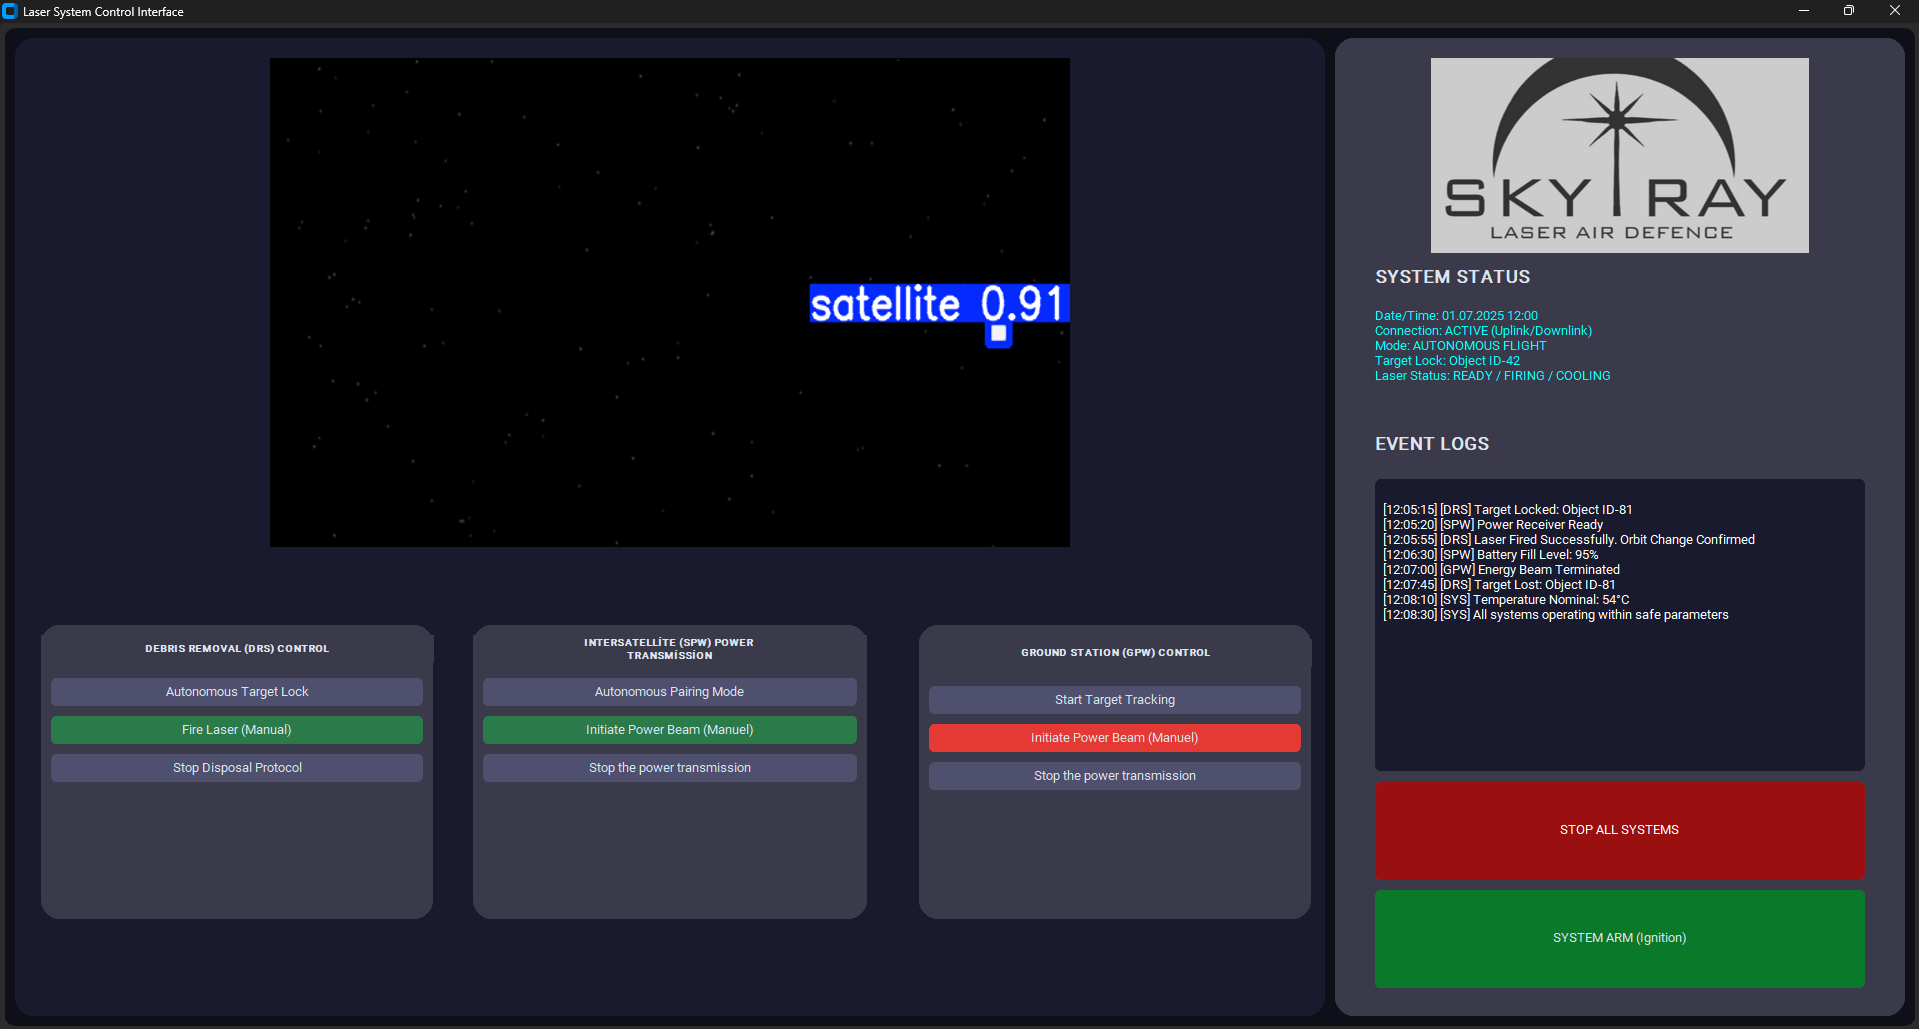
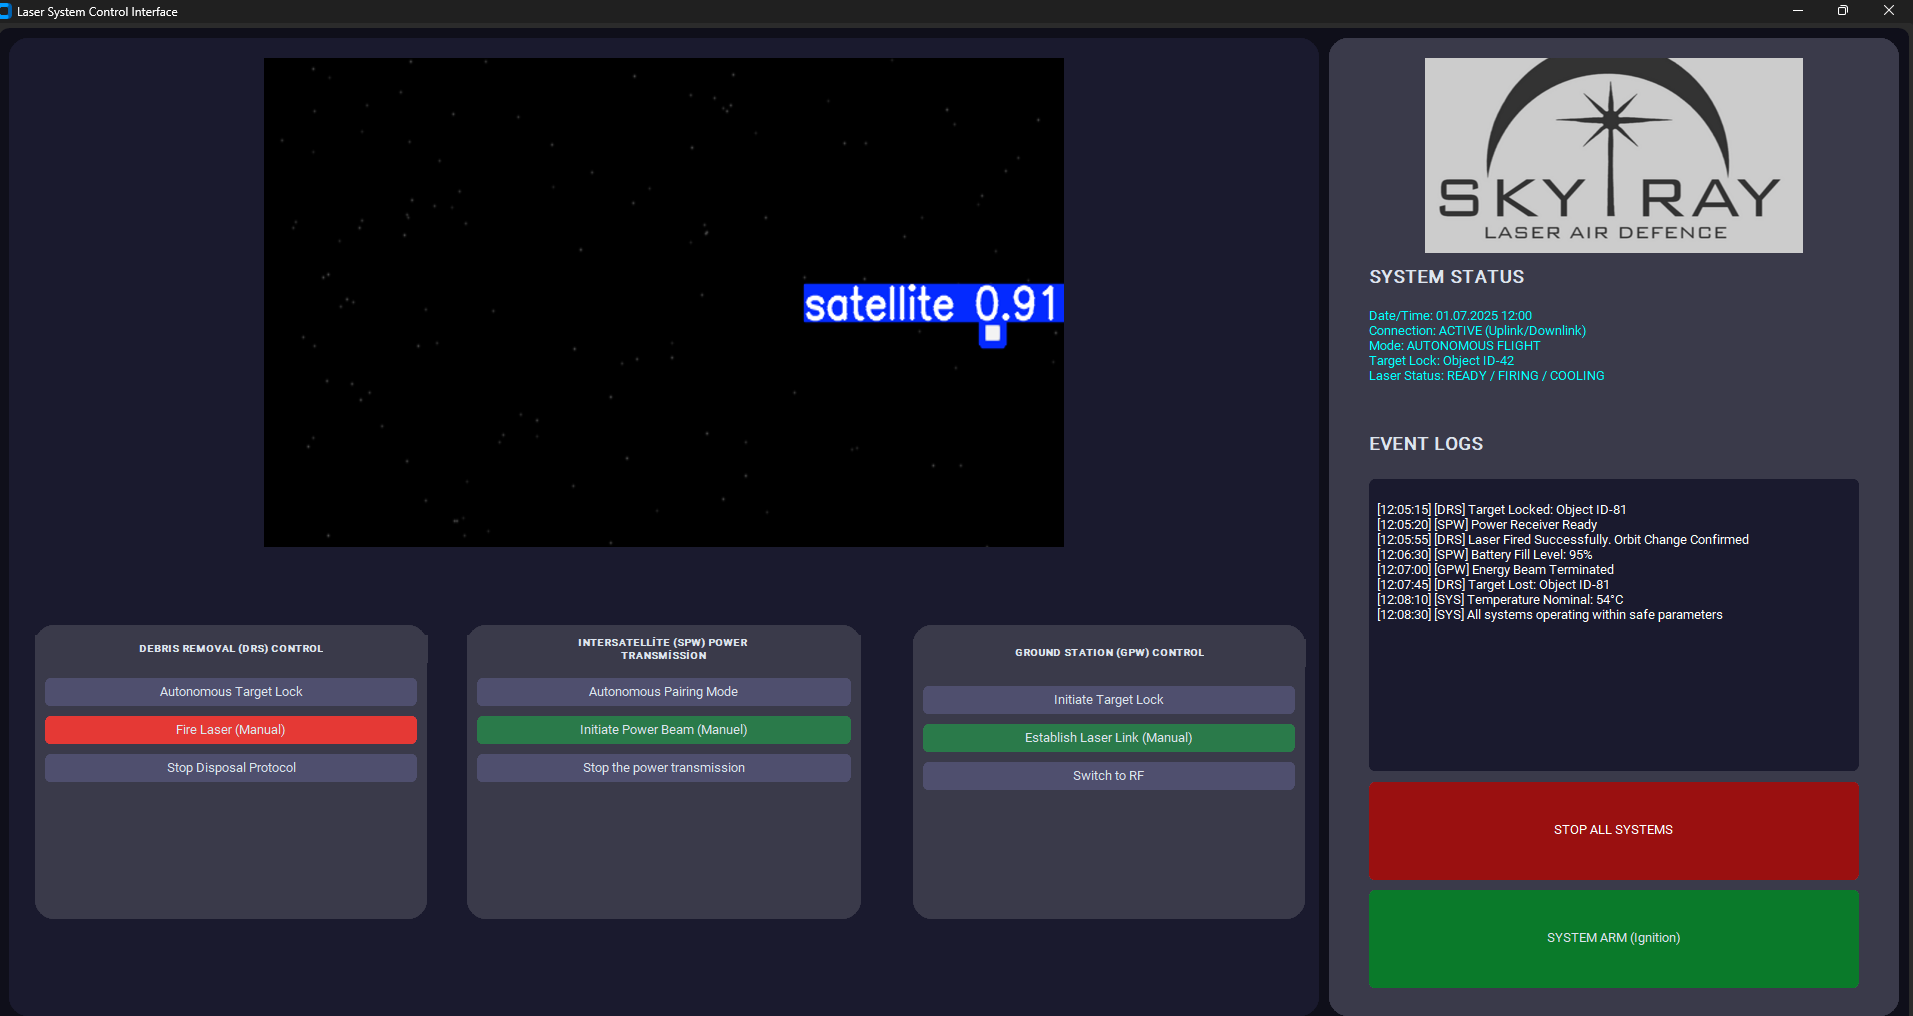
ATOM - SKY-RAY LASER SYSTEMS

diff --git a/SkyRay Laser Interface/main.py b/SkyRay Laser Interface/main.py
@@ -49,7 +49,11 @@ class MainMenu(ctk.CTkFrame):
         # ------------------------------------------------------------------
         
         # Logo Label
-        pil_image = Image.open("docs/logo.png")
+        # pil_image = Image.open("docs/logo.png")
+        import os
+        base_path = os.path.dirname(__file__)
+        pil_image = Image.open(os.path.join(base_path, "docs", "logo.png"))
+
         resized_pil_image = pil_image.resize((500, 250))
         ctk_image = ctk.CTkImage(light_image=resized_pil_image, 
                          dark_image=resized_pil_image, # Use the same image for both modes
@@ -69,13 +73,13 @@ class MainMenu(ctk.CTkFrame):
 #         current_status_text.place(relx=0.07, rely=0.26)
 
         current_status_text2 = ctk.CTkLabel(right_frame, text="""
-Date/Time:	05.10.2025 (00:02:15)
-Section:	ACTIVE (GPW Power Transfer)
-Mode:	AUTONOMOUS / TRACK
-Target Lock	Object ID: KH-04 
-Coordinates	LAT: 41.0562 N, LON: 29.0068 
-Power System:	TRANSFER INITIATED / STEADY
-Laser Status:	POWER BEAM ACTIVE
+Date/Time: 05.10.2025 (00:02:15)
+Section: ACTIVE (Laser Link / RF Backup)
+Mode: AUTONOMOUS / LINK
+Target Lock: Object ID: KH-04
+Coordinates: LAT: 41.0562 N, LON: 29.0068
+SIGNAL STATUS: LOCK ESTABLISHED / STEADY
+DATA RATE: 1.2 GBPS / NOMINAL
 """, justify=ctk.LEFT, text_color="#00ffff")
         current_status_text2.place(relx=0.07, rely=0.26)
 
@@ -101,13 +105,12 @@ Laser Status:	POWER BEAM ACTIVE
 [12:08:30] [SYS] All systems operating within safe parameters
 """
         log_text2 = """
-[00:01:05] [BMS]	Target Lock: Object ID-KH-04 (41.0562 N, 29.0068 E) Confirmed.
-[00:01:20] [GPW]	Ground Station Power Initiated (Manual). Power Beam Incoming.
-[00:01:30] [BMS]	Energy Lock Acquired with Ground Station 1 (GS-1). System Energy Level: 100%.
-[00:01:50] [LSR]	Power Beam Firing Solution Approved. Beam Integrity Nominal.
-[00:02:00] [LSR]	INITIATE POWER TRANSMISSION TO KH-04. 
-[00:02:15] [OPR]	Power Beam Status: Active and Stable. Target Energy Level: 30% (Increasing).
-[00:02:15] [BMS]	All subsystems Nominal and operating within safe transfer parameters.
+[00:01:05] [BMS]  Target Lock: Object ID-KH-04 confirmed (41.0562 N, 29.0068 E).  
+[00:01:20] [GPW]  RF Exciter Activated (Manual) — Carrier Lock: 2.4 GHz.  
+[00:01:30] [BMS]  RF Link Established with GS-1. SNR: 15 dB.  
+[00:01:50] [LSR]  Link Protocol: QPSK/FEC. BER: Nominal.  
+[00:02:00] [LSR]  Power Transmission Initiated to KH-04.  
+[00:02:15] [SYS]  Status: Stable. Power Output: 85%. Temp: 45°C. 
  """
         info_textbox.insert("0.0", log_text2)
         info_textbox.configure(state="disabled")
@@ -129,7 +132,9 @@ Laser Status:	POWER BEAM ACTIVE
         # ------------------------------------------------------------------
         try:
             # Image loading
-            pil_image = Image.open("docs/istanbul-satellite.png") # Update image path
+            base_path = os.path.dirname(__file__)
+            pil_image = Image.open(os.path.join(base_path, "docs", "istanbul-satellite.png"))
+        #     pil_image = Image.open("docs/istanbul-satellite.png") # Update image path
             ctk_image = CTkImage(light_image=pil_image, size=(800, 700))
             image_label = ctk.CTkLabel(left_frame, image=ctk_image, text="")
             image_label.place(relx=0.15, rely=0.02, relwidth=0.7, relheight=0.5)
@@ -180,12 +185,12 @@ Laser Status:	POWER BEAM ACTIVE
         ground_station_power_frame.place(relx=0.69,rely=0.6,relwidth=0.3,relheight=0.3)
         ground_station_power_frame.grid_columnconfigure(0, weight=1)
 
-        ctk.CTkLabel(ground_station_power_frame, text="GROUND STATION (GPW) CONTROL",
+        ctk.CTkLabel(ground_station_power_frame, text="GROUND STATION (GPW) \nPOWER TRANSMİSSİON",
                              font=ctk.CTkFont(weight="bold", size=10),
                              corner_radius=50).grid(row=0, column=0, pady=14, sticky="ew")
 
         # Buttons
-        ctk.CTkButton(ground_station_power_frame, text="Start Target Tracking", fg_color="#4f4f6e").grid(row=1, column=0, padx=10, pady=5, sticky="ew")
+        ctk.CTkButton(ground_station_power_frame, text="Initiate Target Lock", fg_color="#4f4f6e").grid(row=1, column=0, padx=10, pady=5, sticky="ew")
         ctk.CTkButton(ground_station_power_frame, text="Initiate Power Beam (Manuel)", fg_color="#e53935").grid(row=2, column=0, padx=10, pady=5, sticky="ew")
         ctk.CTkButton(ground_station_power_frame, text="Stop the power transmission", fg_color="#4f4f6e").grid(row=3, column=0, padx=10, pady=5, sticky="ew")
 

diff --git a/README.md b/README.md
@@ -1,0 +1,35 @@
+# ATOM — SKY RAY LASER SYSTEMS
+
+![Project Logo](https://github.com/Ozkanyildizz/ATOM---SKY-RAY-LASER-SYSTEMS/blob/master/SkyRay%20Laser%20Interface/docs/logo.png)
+
+> ATOM — Sky Ray Laser Systems combines image processing, laser control, and a modern user interface to provide an integrated platform for experimental and research work with laser-guided systems.
+
+
+---
+
+## About
+ATOM — Sky Ray Laser Systems is an integrated project that bundles:
+- Real-time image processing,
+- Laser control (hardware interface and safety-aware control logic),
+- A desktop GUI for operators and experiment control,
+- Data-prep and YOLOv5 pipelines for object detection workflows.
+
+---
+
+## Repository structure 
+This repository contains a few top-level folders used by the projec:  
+- `SkyRay Laser Interface` — desktop GUI and main application files.  
+- `SkyRay İmage Processing` — image processing and pipelines (label conversion, training helpers).  
+- `SkyRay İmages` — example / dataset images and assets.  
+
+**Logo file:** `SkyRay Laser Interface/docs/logo.png` — used in the README header. :contentReference[oaicite:2]{index=2}
+
+---
+
+## Requirements
+Recommendations:
+- Python 3.11 
+- pip
+- (Optional) CUDA + compatible PyTorch if you plan to train YOLOv5 on GPU
+
+
